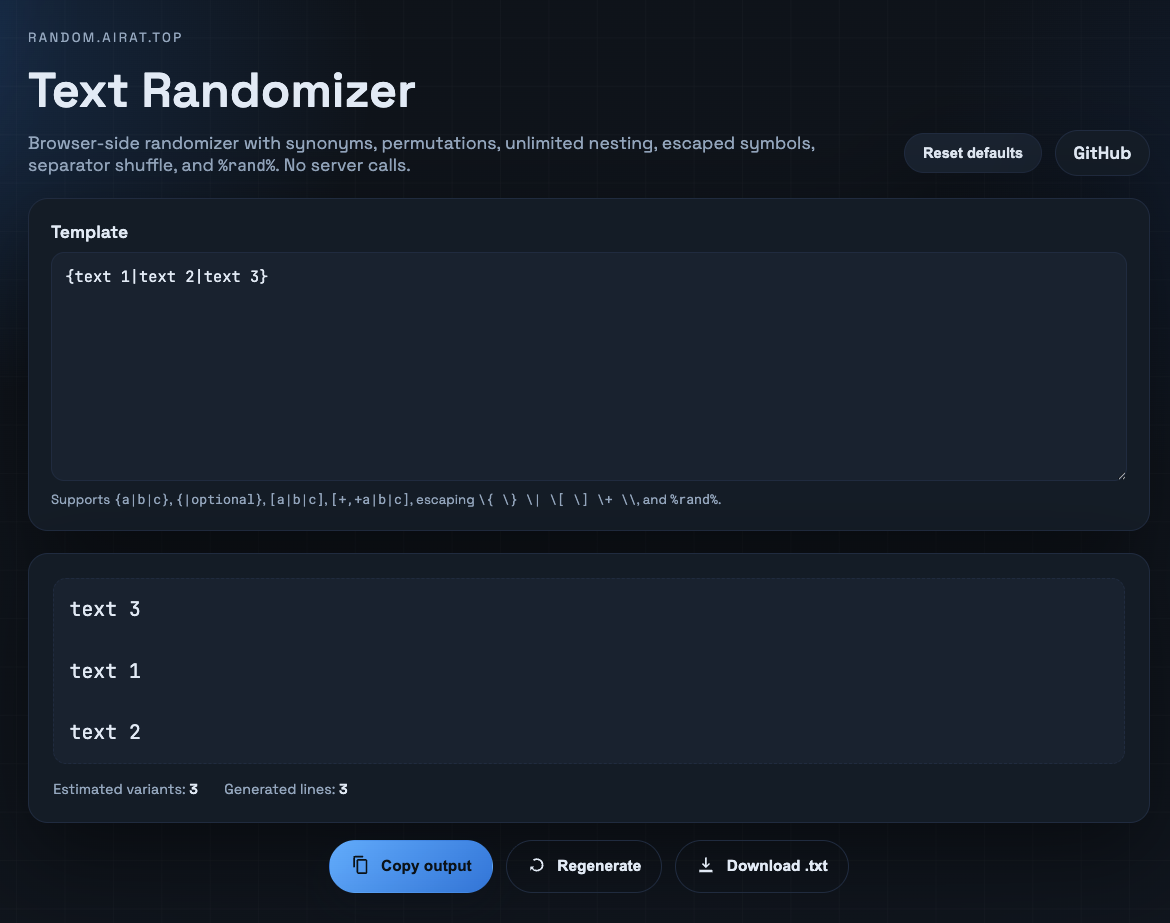
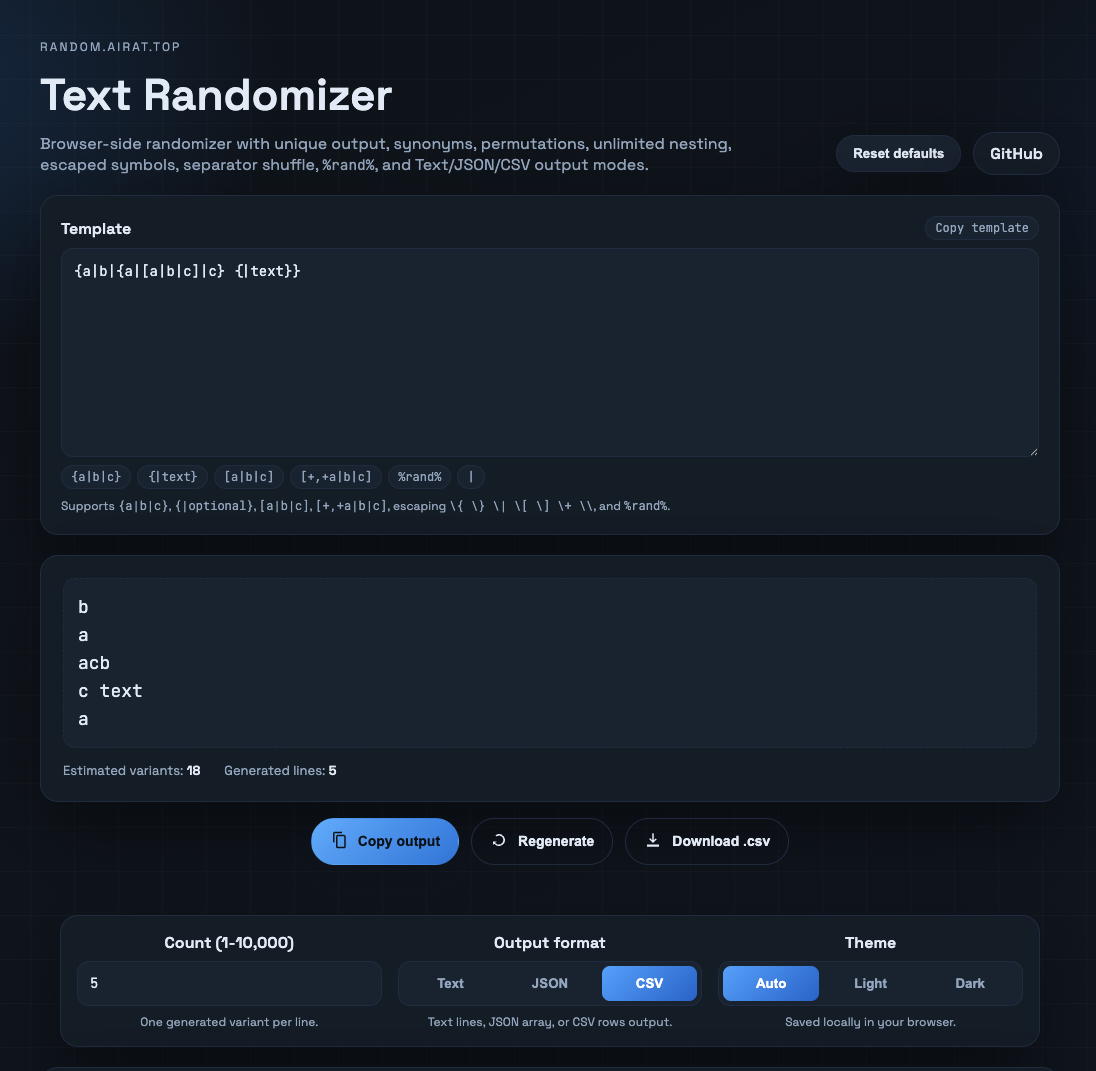
Add presets and template copy

diff --git a/public_html/app.js b/public_html/app.js
@@ -27,6 +27,8 @@ const DEFAULTS = {
 const ui = {
   reset: document.querySelector("#resetDefaults"),
   template: document.querySelector("#templateInput"),
+  templateCopy: document.querySelector("#templateCopy"),
+  presetButtons: Array.from(document.querySelectorAll("[data-template-preset]")),
   output: document.querySelector("#randomOutput"),
   outputWrap: document.querySelector("#randomOutputWrap"),
   count: document.querySelector("#randomCount"),
@@ -734,6 +736,24 @@ function scheduleTemplateRefresh() {
   }, 160);
 }
 
+function insertPresetIntoTemplate(snippet) {
+  const value = ui.template.value || "";
+  const start = typeof ui.template.selectionStart === "number" ? ui.template.selectionStart : value.length;
+  const end = typeof ui.template.selectionEnd === "number" ? ui.template.selectionEnd : start;
+  const nextValue = `${value.slice(0, start)}${snippet}${value.slice(end)}`;
+
+  ui.template.value = nextValue;
+  ui.template.focus();
+
+  const cursorPosition = start + snippet.length;
+  if (typeof ui.template.setSelectionRange === "function") {
+    ui.template.setSelectionRange(cursorPosition, cursorPosition);
+  }
+
+  refreshOutput();
+  storeSettings();
+}
+
 function applySettings(settings) {
   const normalized = normalizeSettings(settings || DEFAULTS);
   setCount(normalized.count);
@@ -789,6 +809,22 @@ function bindEvents() {
   });
 
   ui.template.addEventListener("input", scheduleTemplateRefresh);
+
+  if (ui.templateCopy) {
+    ui.templateCopy.addEventListener("click", () => {
+      copyText(ui.template.value || "", ui.status, "Template");
+    });
+  }
+
+  ui.presetButtons.forEach((button) => {
+    button.addEventListener("click", () => {
+      const snippet = button.dataset.templatePreset || "";
+      if (!snippet) {
+        return;
+      }
+      insertPresetIntoTemplate(snippet);
+    });
+  });
 
   ui.outputFormatButtons.forEach((button) => {
     button.addEventListener("click", () => {

diff --git a/public_html/index.html b/public_html/index.html
@@ -81,8 +81,19 @@
 
       <section class="card" aria-label="Template input">
         <label class="field" for="templateInput">
-          <span>Template</span>
+          <div class="field-head">
+            <span>Template</span>
+            <button class="preset-chip" id="templateCopy" type="button">Copy template</button>
+          </div>
           <textarea id="templateInput" rows="9" spellcheck="false"></textarea>
+          <div class="template-presets" aria-label="Template presets">
+            <button class="preset-chip" type="button" data-template-preset="{a|b|c}">{a|b|c}</button>
+            <button class="preset-chip" type="button" data-template-preset="{|text}">{|text}</button>
+            <button class="preset-chip" type="button" data-template-preset="[a|b|c]">[a|b|c]</button>
+            <button class="preset-chip" type="button" data-template-preset="[+,+a|b|c]">[+,+a|b|c]</button>
+            <button class="preset-chip" type="button" data-template-preset="%rand%">%rand%</button>
+            <button class="preset-chip" type="button" data-template-preset="|">|</button>
+          </div>
           <small>
             Supports <code>{a|b|c}</code>, <code>{|optional}</code>, <code>[a|b|c]</code>,
             <code>[+,+a|b|c]</code>, escaping <code>\{ \} \| \[ \] \+ \\</code>, and <code>%rand%</code>.

diff --git a/public_html/styles.css b/public_html/styles.css
@@ -325,9 +325,42 @@ h1 {
   font-weight: 600;
 }
 
+.field-head {
+  display: flex;
+  align-items: center;
+  justify-content: space-between;
+  gap: 10px;
+}
+
 .field small {
   color: var(--muted);
   font-size: 12px;
+}
+
+.template-presets {
+  display: flex;
+  flex-wrap: wrap;
+  gap: 6px;
+}
+
+.preset-chip {
+  appearance: none;
+  border: 1px solid var(--border);
+  background: var(--surface-strong);
+  color: var(--muted);
+  border-radius: 999px;
+  padding: 4px 9px;
+  font-family: "JetBrains Mono", "SFMono-Regular", monospace;
+  font-size: 12px;
+  line-height: 1.2;
+  cursor: pointer;
+  transition: border-color 0.16s ease, color 0.16s ease, transform 0.16s ease;
+}
+
+.preset-chip:hover {
+  border-color: var(--accent);
+  color: var(--text);
+  transform: translateY(-1px);
 }
 
 textarea,
@@ -351,6 +384,7 @@ textarea {
 
 textarea:focus,
 input:focus,
+.preset-chip:focus,
 .format-button:focus,
 .theme-button:focus,
 .action-button:focus,

diff --git a/README.md b/README.md
@@ -19,6 +19,7 @@ Live site: https://random.airat.top
 - Batch generation request from 1 to 10,000 lines with unique output only (no duplicates).
 - Output format switch: plain text, JSON array, or CSV rows.
 - Copy, regenerate, and download as `.txt`, `.json`, or `.csv` based on selected format.
+- Template presets and one-click template copy button.
 - Local settings persistence (template, count, output format, theme).
 
 ## What is inside
